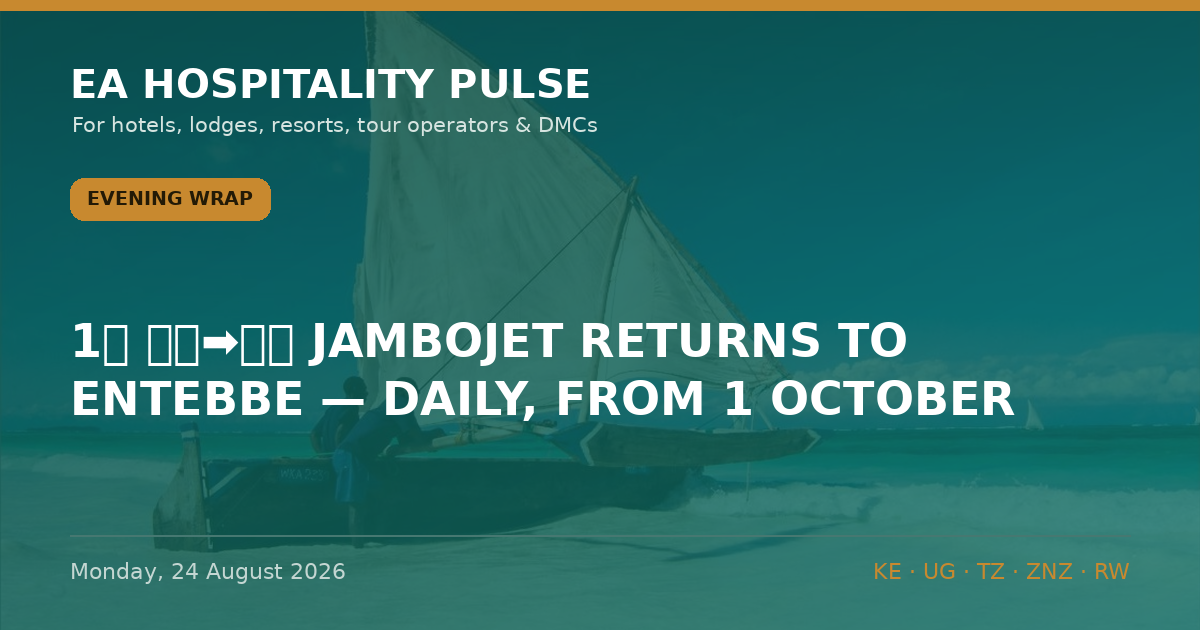
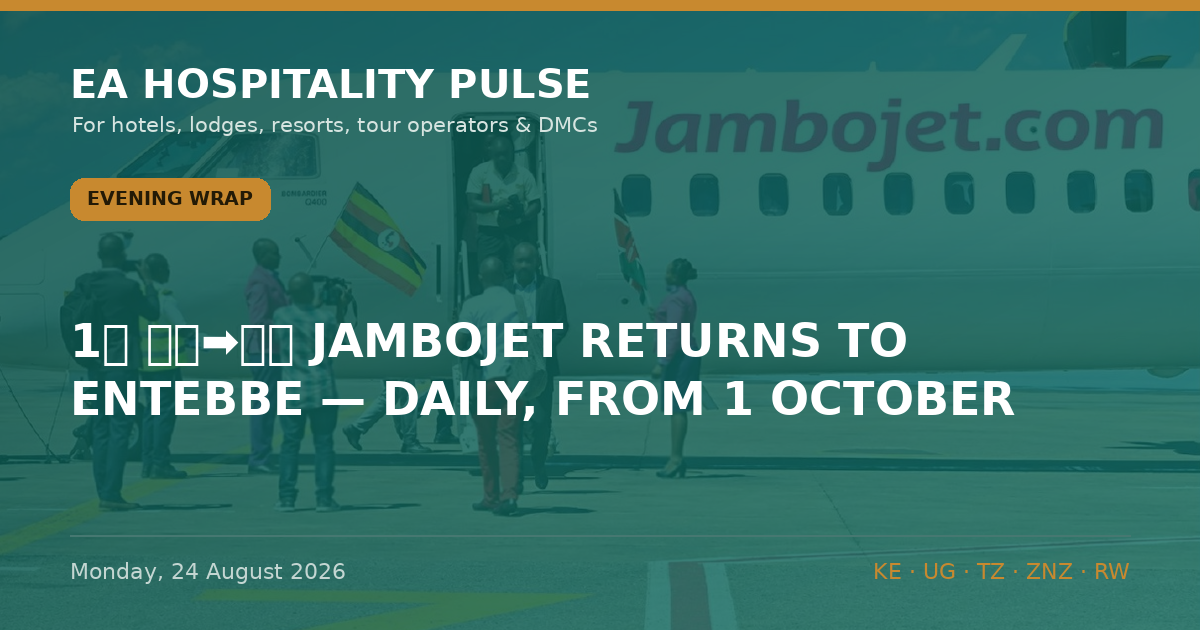
Auto-build: 2026-08-24 13:55 UTC

diff --git a/editions/pulse-2026-08-24-evening.html b/editions/pulse-2026-08-24-evening.html
@@ -153,7 +153,7 @@ footer.s a:hover{color:var(--teal-d);border-bottom-color:var(--gold)}
 <div class="wrap">
   <article class="art">
     <img class="hero" src="../og/pulse-2026-08-24-evening-clean.png" alt="Evening Wrap — Monday, 24 August 2026" loading="eager">
-    
+    <p class="hcredit">Photo: Bizna Kenya / Jambojet · <a href="https://biznakenya.com/jambojet-returns-to-nairobi-entebbe-route/" target="_blank" rel="noopener nofollow">Bizna Kenya</a> · Editorial use — sourced via web/Google Images search; no reuse licence granted, credited to original publisher</p>
     <nav class="crumbs" aria-label="Breadcrumb"><a href="../index.html">Home</a><span aria-hidden="true">/</span><a href="../index.html#archive">Editions</a><span aria-hidden="true">/</span><span aria-current="page">Evening Wrap, Monday, 24 August 2026</span></nav>
     <div class="kicker"><span class="badge">Evening Wrap</span><time datetime="2026-08-24">Monday, 24 August 2026</time></div>
     <h1>Jambojet Returns to Entebbe — Daily, from 1 October.</h1>

diff --git a/index.html b/index.html
@@ -456,7 +456,7 @@
   .imp-demand{color:var(--sage)} .imp-margin{color:var(--coral)} .imp-risk{color:#ff5b5b} .imp-watch{color:var(--amber)}
   @media(max-width:520px){.imp{position:static;display:inline-flex;margin:0 0 9px}.insight h3,.insight .imeta{padding-right:0}}
 </style>
-<!--BUILD_STAMP:20260824-1653--></head>
+<!--BUILD_STAMP:20260824-1354--></head>
 <body>
 <header class="site">
   <div class="wrap topbar">

diff --git a/data.js b/data.js
@@ -2869,4 +2869,4 @@ window.INSIGHTS = [
   "editionKey": "evening"
  }
 ];
-window.BUILT_AT = "2026-08-24 16:53";
+window.BUILT_AT = "2026-08-24 13:54";

diff --git a/ledger.js b/ledger.js
@@ -1,5 +1,5 @@
 window.LEDGER = {
- "updated": "2026-08-24 16:54",
+ "updated": "2026-08-24 13:55",
  "stats": {
   "total": 119,
   "open": 96,
